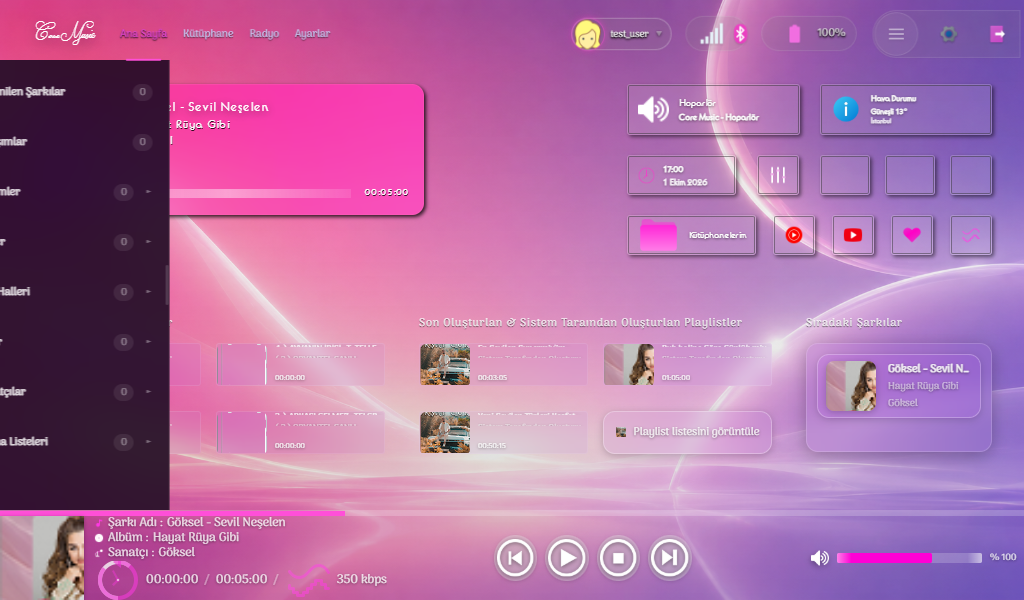
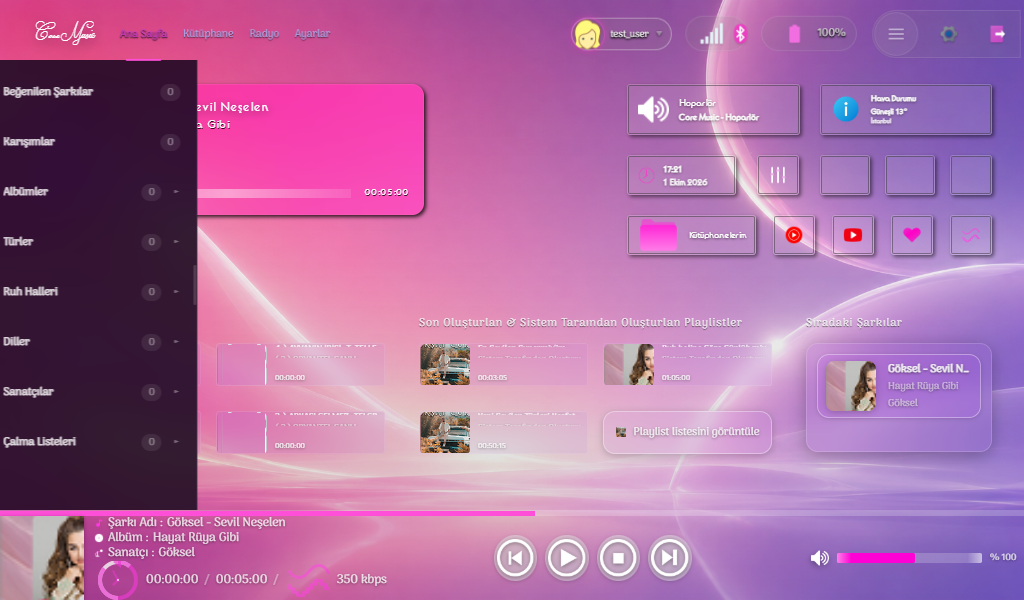
new files edited

diff --git a/assets.coremusic.net/Css/08_Devices/d-desktop.css b/assets.coremusic.net/Css/08_Devices/d-desktop.css
@@ -1,6 +1,6 @@
 /** * CoreMusic — Desktop Device CSS * 1025-1440px — Standard laptop view * ITCSS Layer: 08_Devices * Version: 1.0.0 — 2026-08-05 * * device-loader.js breakpoint: 1025-1440px */@import url("../01_Abstracts/a-primitive-tokens.css?v=1.1.0");
-@import url("../01_Abstracts/a-fonts-token.css?v=2.1.0");@import url("../01_Abstracts/a-colors-token.css?v=2.1.0");@import url("../01_Abstracts/a-semantic-token.css?v=2.1.0");@import url("../01_Abstracts/a-color-mode-tokens.css?v=1.0.0");@import url("../01_Abstracts/a-design-tokens.css?v=1.1.0");      /* Master tokens � shadow SSOT */@import url("../01_Abstracts/a-theme-config.css?v=2.2.0");@import url("../01_Abstracts/a-light-glass-tokens.css?v=2.1.0");@import url("../01_Abstracts/a-login-tokens.css?v=2.1.0");@import url("../01_Abstracts/a-breakpoint-tokens.css?v=2.1.0");@import url("../01_Abstracts/a-scale-hybrid.css?v=1.0.0");       /* Hibrit �l�eklendirme sistemi � layout tokens'tan �NCE */@import url("../01_Abstracts/a-layout-tokens.css?v=5.1.0");@import url("../01_Abstracts/a-widget-grid-tokens.css?v=1.0.0");/* 07_Vendors → Bootstrap 5.3.8 (reboot + grid). NEDEN BURADA: 02_Base'den ÖNCE — reboot'un body{background-color:#fff} ve .container breakpoint'leri
+@import url("../01_Abstracts/a-fonts-token.css?v=2.1.0");@import url("../01_Abstracts/a-colors-token.css?v=2.1.0");@import url("../01_Abstracts/a-semantic-token.css?v=2.1.0");@import url("../01_Abstracts/a-color-mode-tokens.css?v=1.0.0");@import url("../01_Abstracts/a-design-tokens.css?v=1.1.0");      /* Master tokens � shadow SSOT */@import url("../01_Abstracts/a-theme-config.css?v=2.2.0");@import url("../01_Abstracts/a-light-glass-tokens.css?v=2.1.0");@import url("../01_Abstracts/a-login-tokens.css?v=2.1.0");@import url("../01_Abstracts/a-breakpoint-tokens.css?v=2.1.0");@import url("../01_Abstracts/a-scale-hybrid.css?v=1.0.0");       /* Hibrit �l�eklendirme sistemi � layout tokens'tan �NCE */@import url("../01_Abstracts/a-layout-tokens.css?v=5.1.0");@import url("../01_Abstracts/a-widget-grid-tokens.css?v=1.0.0");@import url("../01_Abstracts/a-welcome-banner-tokens.css?v=2.0.0");/* 07_Vendors → Bootstrap 5.3.8 (reboot + grid). NEDEN BURADA: 02_Base'den ÖNCE — reboot'un body{background-color:#fff} ve .container breakpoint'leri
    b-base-core / l-main-structural'i ezmesin; 04_Components'ten de ÖNCE (ITCSS sırası 01→07→02→03→04). Utilities bilinçli eklenmedi (kullanım yok). */
 @import url("../07_Vendors/bootstrap-reboot.min.css?v=5.3.8");
 @import url("../07_Vendors/bootstrap-grid.min.css?v=5.3.8");
-@import url("../02_Base/b-base-core.css?v=2.1.0");@import url("../02_Base/l-main-structural.css?v=2.1.0");@import url("../03_Layout/_header.css?v=2.0.0");@import url("../03_Layout/_footer.css?v=3.2.0");@import url("../04_Components/_widget-grid.css?v=1.0.0");@import url("../04_Components/_player-info.css?v=2.0.0");@import url("../04_Components/_welcome-banner.css?v=1.0.0");@import url("../04_Components/c-scrollbar-accent.css?v=2.1.0");@import url("../04_Components/c-footer-seek.css?v=2.2.0");@import url("../04_Components/c-footer-volume.css?v=2.2.0");@import url("../04_Components/c-card.css?v=1.0.0");@import url("../04_Components/c-buttons.css?v=1.0.0");@import url("../04_Components/c-forms.css?v=1.0.0");@import url("../04_Components/c-modal.css?v=1.0.0");@import url("../04_Components/c-badge.css?v=1.0.0");@import url("../04_Components/c-toggle.css?v=1.0.0");@import url("../04_Components/c-toast.css?v=1.0.0");@import url("../04_Components/c-progress.css?v=1.0.0");@import url("../05_Pages/_home.css?v=6.0.0");             /* pages/home.php */@import url("../05_Pages/_player.css?v=1.0.0");            /* pages/player.php */@import url("../05_Pages/p-albums.css?v=1.0.0");           /* /albums � C-music spec */@import url("../05_Pages/p-album-detail.css?v=1.0.0");     /* /albums/:id � C-music spec */@import url("../05_Pages/p-artists.css?v=1.0.0");          /* /artists � C-music spec */@import url("../05_Pages/p-playlist.css?v=1.0.0");         /* /playlist � D-player spec */@import url("../05_Pages/p-settings.css?v=1.0.0");         /* /ayarlar � settings page */@import url("../06_Utilities/u-helpers-utility.css?v=2.1.0");@import url("../07_Vendors/v-bootstrap-lib.css?v=2.1.0");@import url("../09_ViewModes/v-home.css?v=2.1.0");@import url("../09_ViewModes/v-pro.css?v=2.1.0");@import url("../09_ViewModes/v-studio.css?v=2.1.0");
+@import url("../02_Base/b-base-core.css?v=2.1.0");@import url("../02_Base/l-main-structural.css?v=2.1.0");@import url("../03_Layout/_header.css?v=2.0.0");@import url("../03_Layout/_footer.css?v=3.2.0");@import url("../04_Components/_widget-grid.css?v=1.0.0");@import url("../04_Components/_player-info.css?v=2.0.0");@import url("../04_Components/_welcome-banner.css?v=1.0.0");@import url("../04_Components/c-scrollbar-accent.css?v=2.1.0");@import url("../04_Components/c-footer-seek.css?v=2.2.0");@import url("../04_Components/c-footer-volume.css?v=2.2.0");@import url("../04_Components/c-card.css?v=1.0.0");@import url("../04_Components/c-buttons.css?v=1.0.0");@import url("../04_Components/c-forms.css?v=1.0.0");@import url("../04_Components/c-modal.css?v=1.0.0");@import url("../04_Components/c-badge.css?v=1.0.0");@import url("../04_Components/c-toggle.css?v=1.0.0");@import url("../04_Components/c-toast.css?v=1.0.0");@import url("../04_Components/c-progress.css?v=1.0.0");@import url("../04_Components/c-home-song-btn.css?v=1.0.0");@import url("../05_Pages/_home.css?v=6.0.0");             /* pages/home.php */@import url("../05_Pages/_player.css?v=1.0.0");            /* pages/player.php */@import url("../05_Pages/p-albums.css?v=1.0.0");           /* /albums � C-music spec */@import url("../05_Pages/p-album-detail.css?v=1.0.0");     /* /albums/:id � C-music spec */@import url("../05_Pages/p-artists.css?v=1.0.0");          /* /artists � C-music spec */@import url("../05_Pages/p-playlist.css?v=1.0.0");         /* /playlist � D-player spec */@import url("../05_Pages/p-settings.css?v=1.0.0");         /* /ayarlar � settings page */@import url("../06_Utilities/u-helpers-utility.css?v=2.1.0");@import url("../07_Vendors/v-bootstrap-lib.css?v=2.1.0");@import url("../09_ViewModes/v-home.css?v=2.1.0");@import url("../09_ViewModes/v-pro.css?v=2.1.0");@import url("../09_ViewModes/v-studio.css?v=2.1.0");

diff --git a/assets.coremusic.net/Css/08_Devices/d-4k.css b/assets.coremusic.net/Css/08_Devices/d-4k.css
@@ -1,5 +1,5 @@
 /** * CoreMusic — Laptop Device CSS * 1025-1440px — Standard laptop view * ITCSS Layer: 08_Devices * Version: 1.0.0 — 2026-08-05 * * device-loader.js breakpoint: 1025-1440px */@import url("../01_Abstracts/a-primitive-tokens.css?v=1.1.0");
-@import url("../01_Abstracts/a-fonts-token.css?v=2.1.0");@import url("../01_Abstracts/a-colors-token.css?v=2.1.0");@import url("../01_Abstracts/a-semantic-token.css?v=2.1.0");@import url("../01_Abstracts/a-color-mode-tokens.css?v=1.0.0");@import url("../01_Abstracts/a-design-tokens.css?v=1.1.0");      /* Master tokens � shadow SSOT */@import url("../01_Abstracts/a-theme-config.css?v=2.2.0");@import url("../01_Abstracts/a-light-glass-tokens.css?v=2.1.0");@import url("../01_Abstracts/a-login-tokens.css?v=2.1.0");@import url("../01_Abstracts/a-breakpoint-tokens.css?v=2.1.0");@import url("../01_Abstracts/a-scale-hybrid.css?v=1.0.0");       /* Hibrit �l�eklendirme sistemi � layout tokens'tan �NCE */@import url("../01_Abstracts/a-layout-tokens-1024.css?v=5.1.0");@import url("../01_Abstracts/a-widget-grid-tokens.css?v=1.0.0");/* 07_Vendors → Bootstrap 5.3.8 (reboot + grid). NEDEN BURADA: 02_Base'den ÖNCE — reboot'un body{background-color:#fff} ve .container breakpoint'leri
+@import url("../01_Abstracts/a-fonts-token.css?v=2.1.0");@import url("../01_Abstracts/a-colors-token.css?v=2.1.0");@import url("../01_Abstracts/a-semantic-token.css?v=2.1.0");@import url("../01_Abstracts/a-color-mode-tokens.css?v=1.0.0");@import url("../01_Abstracts/a-design-tokens.css?v=1.1.0");      /* Master tokens � shadow SSOT */@import url("../01_Abstracts/a-theme-config.css?v=2.2.0");@import url("../01_Abstracts/a-light-glass-tokens.css?v=2.1.0");@import url("../01_Abstracts/a-login-tokens.css?v=2.1.0");@import url("../01_Abstracts/a-breakpoint-tokens.css?v=2.1.0");@import url("../01_Abstracts/a-scale-hybrid.css?v=1.0.0");       /* Hibrit �l�eklendirme sistemi � layout tokens'tan �NCE */@import url("../01_Abstracts/a-layout-tokens-1024.css?v=5.1.0");@import url("../01_Abstracts/a-widget-grid-tokens.css?v=1.0.0");@import url("../01_Abstracts/a-welcome-banner-tokens.css?v=2.0.0");/* 07_Vendors → Bootstrap 5.3.8 (reboot + grid). NEDEN BURADA: 02_Base'den ÖNCE — reboot'un body{background-color:#fff} ve .container breakpoint'leri
    b-base-core / l-main-structural'i ezmesin; 04_Components'ten de ÖNCE (ITCSS sırası 01→07→02→03→04). Utilities bilinçli eklenmedi (kullanım yok). */
 @import url("../07_Vendors/bootstrap-reboot.min.css?v=5.3.8");
 @import url("../07_Vendors/bootstrap-grid.min.css?v=5.3.8");

diff --git a/assets.coremusic.net/Css/08_Devices/d-laptop.css b/assets.coremusic.net/Css/08_Devices/d-laptop.css
@@ -1,5 +1,5 @@
 /** * CoreMusic — Laptop Device CSS * 1025-1440px — Standard laptop view * ITCSS Layer: 08_Devices * Version: 1.0.0 — 2026-08-05 * * device-loader.js breakpoint: 1025-1440px */@import url("../01_Abstracts/a-primitive-tokens.css?v=1.1.0");
-@import url("../01_Abstracts/a-fonts-token.css?v=2.1.0");@import url("../01_Abstracts/a-colors-token.css?v=2.1.0");@import url("../01_Abstracts/a-semantic-token.css?v=2.1.0");@import url("../01_Abstracts/a-color-mode-tokens.css?v=1.0.0");@import url("../01_Abstracts/a-design-tokens.css?v=1.1.0");      /* Master tokens � shadow SSOT */@import url("../01_Abstracts/a-theme-config.css?v=2.2.0");@import url("../01_Abstracts/a-light-glass-tokens.css?v=2.1.0");@import url("../01_Abstracts/a-login-tokens.css?v=2.1.0");@import url("../01_Abstracts/a-breakpoint-tokens.css?v=2.1.0");@import url("../01_Abstracts/a-scale-hybrid.css?v=1.0.0");       /* Hibrit �l�eklendirme sistemi � layout tokens'tan �NCE */@import url("../01_Abstracts/a-layout-tokens.css?v=5.1.0");@import url("../01_Abstracts/a-widget-grid-tokens.css?v=1.0.0");/* 07_Vendors → Bootstrap 5.3.8 (reboot + grid). NEDEN BURADA: 02_Base'den ÖNCE — reboot'un body{background-color:#fff} ve .container breakpoint'leri
+@import url("../01_Abstracts/a-fonts-token.css?v=2.1.0");@import url("../01_Abstracts/a-colors-token.css?v=2.1.0");@import url("../01_Abstracts/a-semantic-token.css?v=2.1.0");@import url("../01_Abstracts/a-color-mode-tokens.css?v=1.0.0");@import url("../01_Abstracts/a-design-tokens.css?v=1.1.0");      /* Master tokens � shadow SSOT */@import url("../01_Abstracts/a-theme-config.css?v=2.2.0");@import url("../01_Abstracts/a-light-glass-tokens.css?v=2.1.0");@import url("../01_Abstracts/a-login-tokens.css?v=2.1.0");@import url("../01_Abstracts/a-breakpoint-tokens.css?v=2.1.0");@import url("../01_Abstracts/a-scale-hybrid.css?v=1.0.0");       /* Hibrit �l�eklendirme sistemi � layout tokens'tan �NCE */@import url("../01_Abstracts/a-layout-tokens.css?v=5.1.0");@import url("../01_Abstracts/a-widget-grid-tokens.css?v=1.0.0");@import url("../01_Abstracts/a-welcome-banner-tokens.css?v=2.0.0");/* 07_Vendors → Bootstrap 5.3.8 (reboot + grid). NEDEN BURADA: 02_Base'den ÖNCE — reboot'un body{background-color:#fff} ve .container breakpoint'leri
    b-base-core / l-main-structural'i ezmesin; 04_Components'ten de ÖNCE (ITCSS sırası 01→07→02→03→04). Utilities bilinçli eklenmedi (kullanım yok). */
 @import url("../07_Vendors/bootstrap-reboot.min.css?v=5.3.8");
 @import url("../07_Vendors/bootstrap-grid.min.css?v=5.3.8");

diff --git a/home.coremusic.net/pages/components/welcome-banner.php b/home.coremusic.net/pages/components/welcome-banner.php
@@ -16,7 +16,7 @@
  * @var \CoreMusic\Home\Component\WelcomeBannerComponent $this
  */
 ?>
-<section class="welcome-banner welcome-banner--wide" aria-label="Hoş geldin" data-cm-component="cm-home-welcome-banner">
+<section class="welcome-banner welcome-banner--wide" aria-label="Hoş geldin">
     <div class="welcome-banner__overlay"></div>
     <div class="welcome-banner__content">
         <p class="welcome-banner__eyebrow"><?= $this->eyebrow ?></p>

diff --git a/.ai/PLAN.md b/.ai/PLAN.md
@@ -2,7 +2,7 @@
 title: "CoreMusic — Sıralı Yürütme Planı"
 type: plan
 category: project-planning
-version: 1.0.0
+version: 1.1.0
 status: active
 authority: SSOT
 updated: 2026-10-01
@@ -238,7 +238,77 @@ Her session [[CHECKLIST.md]] §A (başlama) → §B (orta) → §C (kapanış, `
 
 ---
 
-## §6 Referanslar
+## §6 UI Görevi — Home Page Rebuild (aaa.md · Kalıp C)
+
+> **Bu bölüm §2'deki 19 vault adımından FARKLI bir yazılım geliştirme görevidir** — §2-§5'teki 19 adımı, 11 session'ı ve durum tablosunu **etkilemez** (kapanış yine [[CHECKLIST.md]] §A3/§C3 çiftiyle [[TODO.md]] üzerinden yürür). Görevin **tek kaynağı** `aaa.md` (Kalıp C: *Home Page Whole-Page Rebuild + Multi-Resolution Verify (1024→3840)*). Süreç aşamaları: [[WORKFLOW.md]].
+
+### §6.1 Kapsam özeti
+
+- **Dokunulmaz yüzeyler:** header, footer/player bar, `_player-info.css`, `PlayerInfoComponent.js`, `player-info.php` — ihlal = görev reddi (`aaa.md §Senaryo Kapsam`).
+- **İki ayrı sayfa:** 1024 (T07 embedded, 1024×600, **12** widget slot) ve 1920 (T17 desktop, 1920×1080, **20** widget slot) — asla birbirine karıştırılmaz; her breakpoint kendi mockup'ıyla ölçülür (`aaa.md §Senaryo`, §13.9).
+- **Bilinen hatalar:** track btn & playlist btn bozuk (etiket + oynat/aksiyon davranışı yanlış) → mockup'taki gibi çalışacak (tıklama → doğru eylem, hover/focus state'leri, PNG ile birebir); yanlış render'lar tespit edilip düzeltilecek, doğrular bırakılacak (`aaa.md §Senaryo Bilinen hatalar`).
+- **Dosya kuralı:** **yeni dosya YOK** — mevcut dosyalarda mevcut satırlarda edit (HTML/CSS/PHP/JS); CSS yalnız `assets.coremusic.net/Css/` (SSOT) (`aaa.md §Senaryo Kapsam`).
+- **Mockup Gate:** kod ÖNCE 3 PNG okunur — okunamazsa **DUR** (`aaa.md §Senaryo Mockup Gate`).
+- **Ölçü/token:** yalnız PNG + Figma raw + `01_Abstracts`; uydurma ölç, tahmin token, `clamp()` varsayımı yasak (`aaa.md §Senaryo Kapsam`).
+
+### §6.2 Adımlar (Dispatch — 9 adım · `[ ]` todo)
+
+1. [ ] **Adım 1 — [Keşif] Referansları topla ve oku.** Toplama komutlarını çalıştır; 3 PNG + `figma/png` + raw JSON oku (ölçü uydurma yasak); raw yetmezse Figma Data API adım adım (`figma-extract.ps1` → `/v1/files/:key/nodes` → `/v1/images/:key`), token yalnız `.ai/.env.figma`.
+   - **"Bitti" ölçütü:** 3 PNG okunabilir (Mockup Gate geçildi) + raw JSON ölçüsü çapraz doğrulandı; okunamadıysa DUR — hiçbir ölçüt yazılmamış.
+   - **Bağımlılık:** — (ilk adım) · **Kaynak:** `aaa.md §Dispatch ad.1`
+2. [ ] **Adım 2 — [Ayıklama] Blokları kendi mockup'ıyla karşılaştır.** 1024↔1024, 1920↔1920 (KARIŞTIRMA); DOĞRU = dokunma · HATALI = listele (dosya:satır + ne yanlış); 10 dk'da bitir.
+   - **"Bitti" ölçütü:** Her blok için DOĞRU/HATALI listesi yazılı (her hatalı satır: dosya:satır + ne yanlış) — hatalı blok kalmamış listelenmemiş.
+   - **Bağımlılık:** Adım 1 · **Kaynak:** `aaa.md §Dispatch ad.2`
+3. [ ] **Adım 3 — [Edit] Sadece mevcut dosyalarda düzelt.** ITCSS katmanına uygun CSS dosyası; yeni dosya YOK; inline `style`/`script` YOK; ham hex/px yalnız `01_Abstracts`.
+   - **"Bitti" ölçütü:** `git status` → yeni dosya YOK; inline style/script yok; ham hex/px yalnız `01_Abstracts` (`aaa.md §Validation` 6, 7).
+   - **Bağımlılık:** Adım 2 · **Kaynak:** `aaa.md §Dispatch ad.3`
+4. [ ] **Adım 4 — [Butonlar] Track btn & playlist btn düzelt.** Etiket + aksiyon + hover/focus/active state'leri PNG/Figma birebir.
+   - **"Bitti" ölçütü:** Tıklama doğru eylemi üretir; etiket/state PNG ile birebir (`aaa.md §Validation` 4).
+   - **Bağımlılık:** Adım 3 · **Kaynak:** `aaa.md §Dispatch ad.4`
+5. [ ] **Adım 5 — [Kural] Widget grid slot kuralını uygula.** §13.9: 1024 → 12 · 1920 → 20 slot; çelişkide kural PNG'ye precedanslı.
+   - **"Bitti" ölçütü:** 1024 → 12 slot · 1920 → 20 slot (`aaa.md §Validation` 5).
+   - **Bağımlılık:** Adım 4 · **Kaynak:** `aaa.md §Dispatch ad.5`
+6. [ ] **Adım 6 — [Popup] 1024 welcome popup'ı bağla.** Mevcut `c-modal.css` / `_welcome-banner.css`; Başla → localStorage.
+   - **"Bitti" ölçütü:** Başla → localStorage → ikinci girişte görünmez (`aaa.md §Validation` 10).
+   - **Bağımlılık:** Adım 5 · **Kaynak:** `aaa.md §Dispatch ad.6`
+7. [ ] **Adım 7 — [Test] Genişlik süpürmesi (8 genişlik).** `TEST_MODE=true` · `http://home.coremusic.net:81/home`; genişlikler `1024, 1524, 1920, 2024, 2524, 3024, 3524, 3840` (yükseklik tier'e göre 600/1080/2160); her genişlikte screenshot + DOM ölçü; bozuk çıktı → düzelt → YENİDEN render; cookie `cm_viewport_w` lag: resize ÖNCE navigate, gerekirse 2× yükle; cache takılıysa CDP `Network.clearBrowserCache` + `?v` bump.
+   - **"Bitti" ölçütü:** 8 genişlikte de screenshot var; Console 0 hata; CSP violation yok; Player Info regression yok; bozuk çıktı kalmamış (`aaa.md §Validation` 3, 7, 11).
+   - **Bağımlılık:** Adım 6 · **Kaynak:** `aaa.md §Dispatch ad.7`
+8. [ ] **Adım 8 — [Git gate] Push yok, sinyal bekle.** COMMIT/PUSH SONRASI DUR → "git pull bekleniyor" de; kullanıcı "git pull çalıştır" der → pull al; kullanıcı diğer PC'de pull yapıp "devam" der → 8 genişlik screenshot ile KONTROL ET.
+   - **"Bitti" ölçütü:** Kullanıcı sinyali alınmadan push/pull/deploy YOK; sinyal sonrası 8 genişlik kontrolü tamam, hata yok (`aaa.md §Validation` 6; `aaa.md §Git Akışı` NOT).
+   - **Bağımlılık:** Adım 7 · **Kaynak:** `aaa.md §Dispatch ad.8`
+9. [ ] **Adım 9 — [Sonuç] Raporu teslim et.** 8 screenshot + düzeltme tablosu (dosya · satır · ne değişti · neden) + Validation checklist + `git status` (yeni dosya yok kanıtı).
+   - **"Bitti" ölçütü:** 8 screenshot, düzeltme tablosu, 11 maddelik Validation ve `git status` kanıtı teslim edildi (`aaa.md §Validation` 6).
+   - **Bağımlılık:** Adım 8 · **Kaynak:** `aaa.md §Dispatch ad.9`
+
+### §6.3 Validation (kontrol kutuları — birebir)
+
+- [ ] 1024×600 screenshot → mockup birebir (12 slot, 2 kolon, Sıradaki, popup)
+- [ ] 1920×1080 screenshot → mockup birebir (20 slot, welcome-banner, tek satır listeler)
+- [ ] **Çok çözünürlük süpürmesi:** genişlik `1024, 1524, 1920, 2024, 2524, 3024, 3524, 3840` → her birinde screenshot; bozuk olanları düzelt + yeniden render (500px adım + 1920 zorunlu ara nokta)
+- [ ] Track btn & playlist btn: tıklama doğru eylemi üretir, etiket/state PNG ile birebir
+- [ ] Widget slot: 1024 → 12 · 1920 → 20
+- [ ] `git diff` → header/footer/player-info değişikliği YOK; `git status` → yeni dosya YOK
+- [ ] Ham hex/px yalnız 01_Abstracts; inline style/script yok; Console 0 hata; CSP violation yok
+- [ ] BEM `block__element--modifier`; `innerHTML` yok
+- [ ] WCAG 2.2 AA: kontrast ≥ 4.5:1; focus-visible `2px solid var(--color-primary)`
+- [ ] Popup: Başla → localStorage → ikinci girişte görünmez
+- [ ] Regression: Player Info 392×131 / 469×184 / 750×300 bozulmadı
+
+*(Kaynak: `aaa.md §Validation` — 11 madde, uydurma ekleme/çıkarma yok.)*
+
+### §6.4 Git akışı uyarısı (4 adım — ihlal = dur)
+
+1. Uzman kodu yazar + yerel doğrular. **COMMIT/PUSH YAPMAZ** (veya commit eder, **push ETMEZ**).
+2. Uzman DURUR → orkestratöre: "değişiklikler hazır, git pull bekleniyor".
+3. Orkestratör kullanıcıya sorar; kullanıcı "git pull çalıştır" der → repo'da `git pull` ALINIR (pull = yerel güncelleme sinyali).
+4. Kullanıcı diğer server PC'de `git pull` çalıştırıp "devam" der → uzman sunucuda 8 genişlik screenshot süpürmesi + Validation ile KONTROL EDER; hata varsa 2-3'e döner.
+
+**NOT:** Kullanıcı sinyali olmadan push/pull/deploy ATLANMAZ — **uzman push ETMEZ, kullanıcı sinyali beklenir.** *(Kaynak: `aaa.md §Git Akışı`.)*
+
+---
+
+## §7 Referanslar
 
 | Hedef | İlişki |
 |---|---|
@@ -247,10 +317,12 @@ Her session [[CHECKLIST.md]] §A (başlama) → §B (orta) → §C (kapanış, `
 | [[WORKFLOW.md]] | Süreçler, §8.7 bitiş adımları |
 | [[CLAUDE.md]] | Guardrail'ler (#1 Zero Code Before Plan, #16 şablon) |
 | `.ai/.templates/index.md` | Şablon registry (Guardrail #16) |
+| `aaa.md` | §6 UI Görevi tek kaynağı (Kalıp C promptu) |
 
 | Tarih | Versiyon | Değişiklik |
 |---|---|---|
 | 2026-10-01 | 1.0.0 | İlk üretim — TODO.md açık maddelerinden 19 adımlık sıralı plan |
+| 2026-10-01 | 1.1.0 | §6 UI Görevi eklendi (aaa.md · Kalıp C — 9 adım + 11 validation + git uyarısı); §1-§5 değişmedi; eski "§6 Referanslar" → §7 |
 
 ---
 

diff --git a/.ai/log.md b/.ai/log.md
@@ -943,3 +943,4 @@ ADR-076 yazıldı (debate PENDING)
 ADR-076 debate 3/20 kaydedildi (18/2/0 KABUL) + Tech Lead ✅ + 3 şart
 ADR-077 yazıldı (debate PENDING)
 ADR-077 debate 3/20 kaydedildi (18/2/0 KABUL) + Tech Lead ✅ + 3 şart
+- 2026-10-01 | PLAN-CREATION | subagent | .ai/PLAN.md olusturuldu (260 satir, 19 adimli sirali yurutme plani; kaynak: TODO.md acik maddeler P0 5 / P1 7 / P2 7 = 19, satir araliklari 33-37 / 41-47 / 51-57; sablon: .ai/.templates/documentation/docs-md-template.md; oturum plani 11 session, CHECKLIST A3/C3 bagli). Yalniz PLAN.md yazildi; TODO/CHECKLIST/frozen ADR dokunulmadi, kod yok. verify: BOM false, mojibake 0. UNKNOWN: session-save.mjs + vault-post-update.mjs diskte YOK -> sync adimlari calistirilamadi. | status=completed
